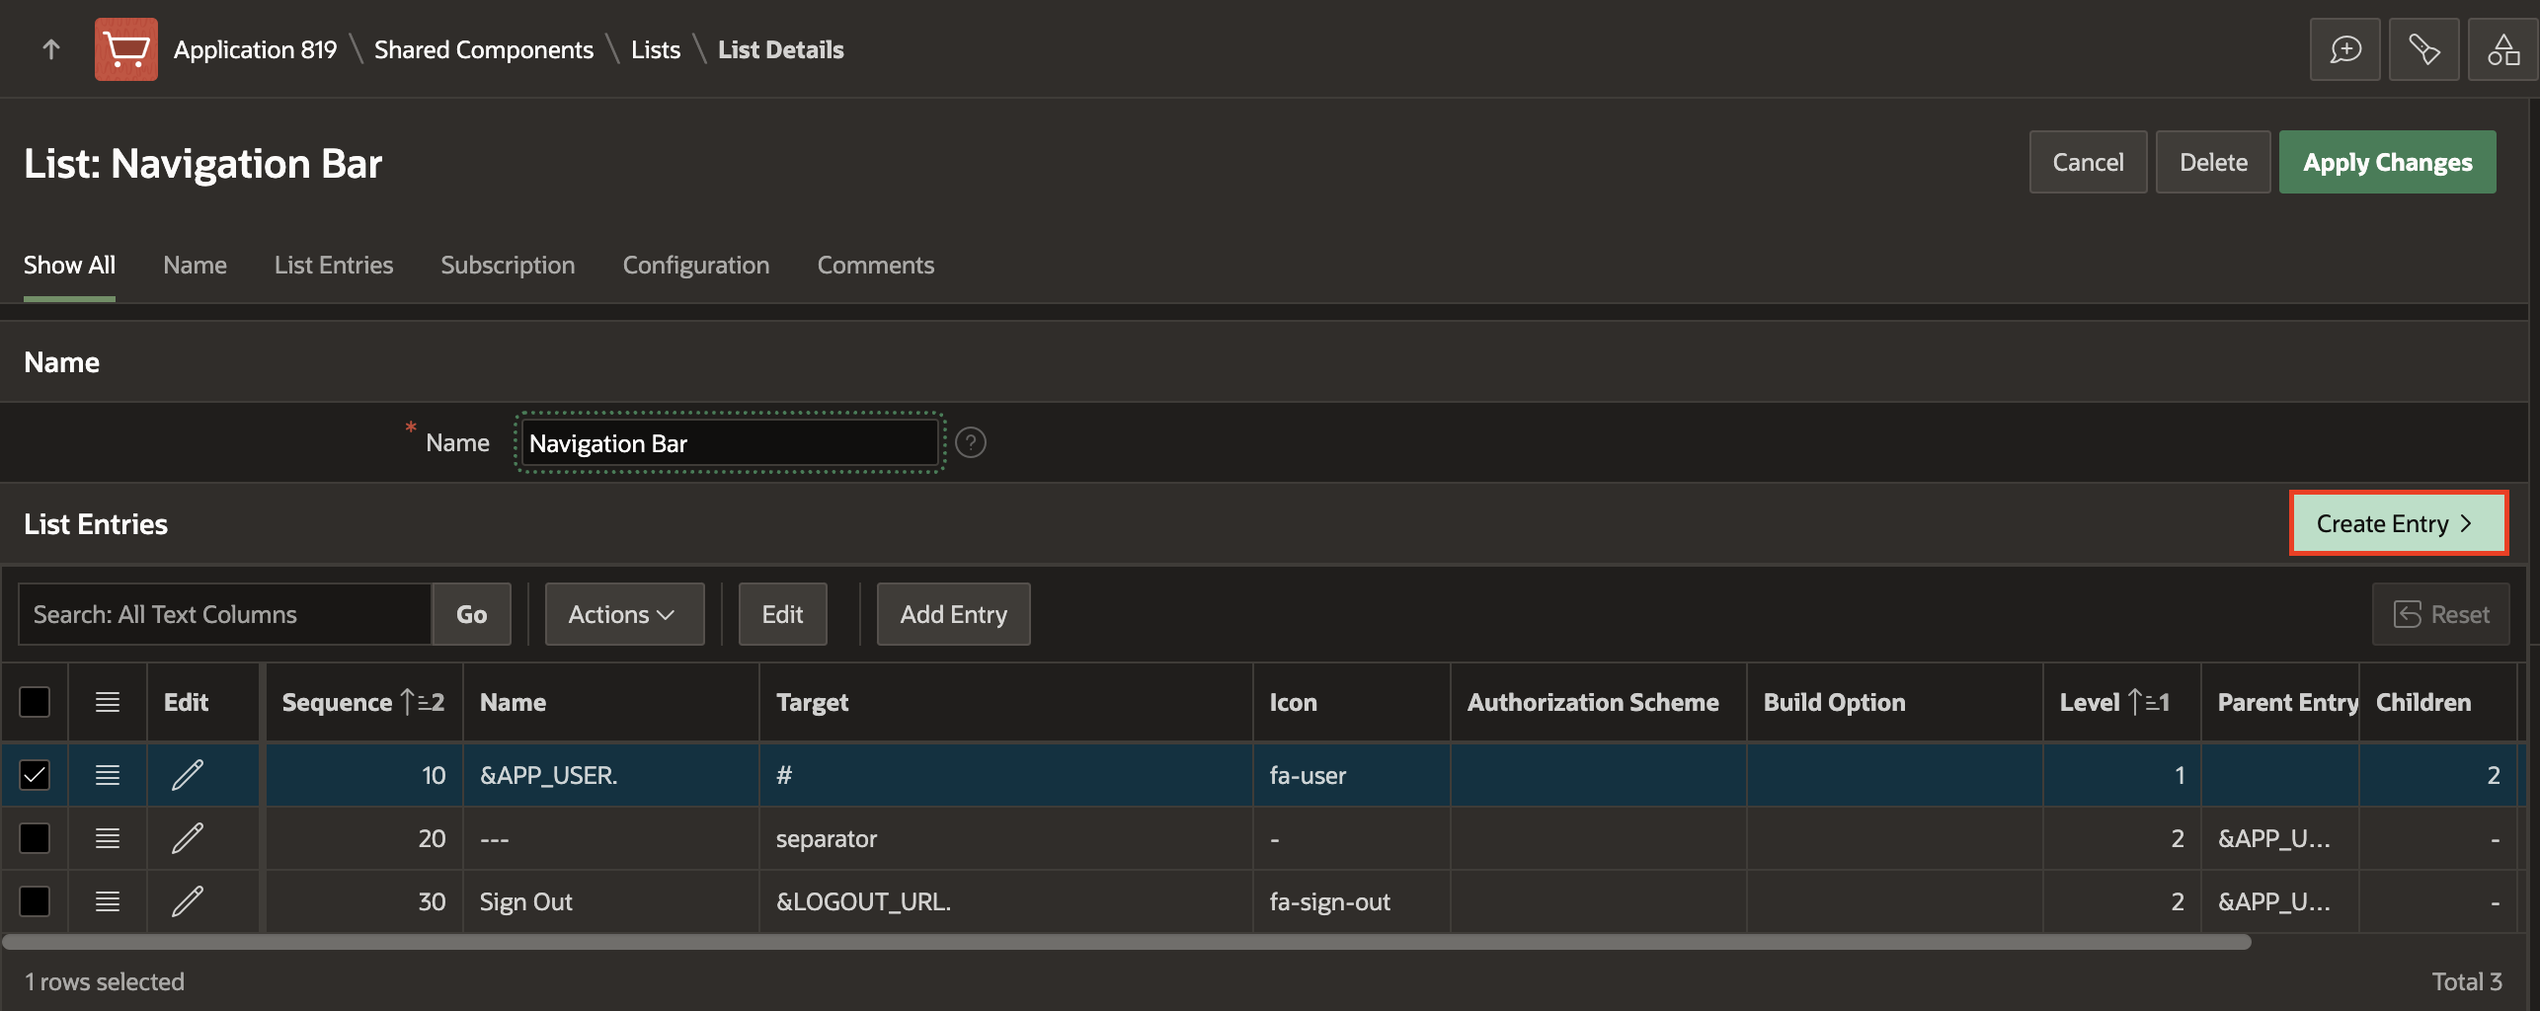
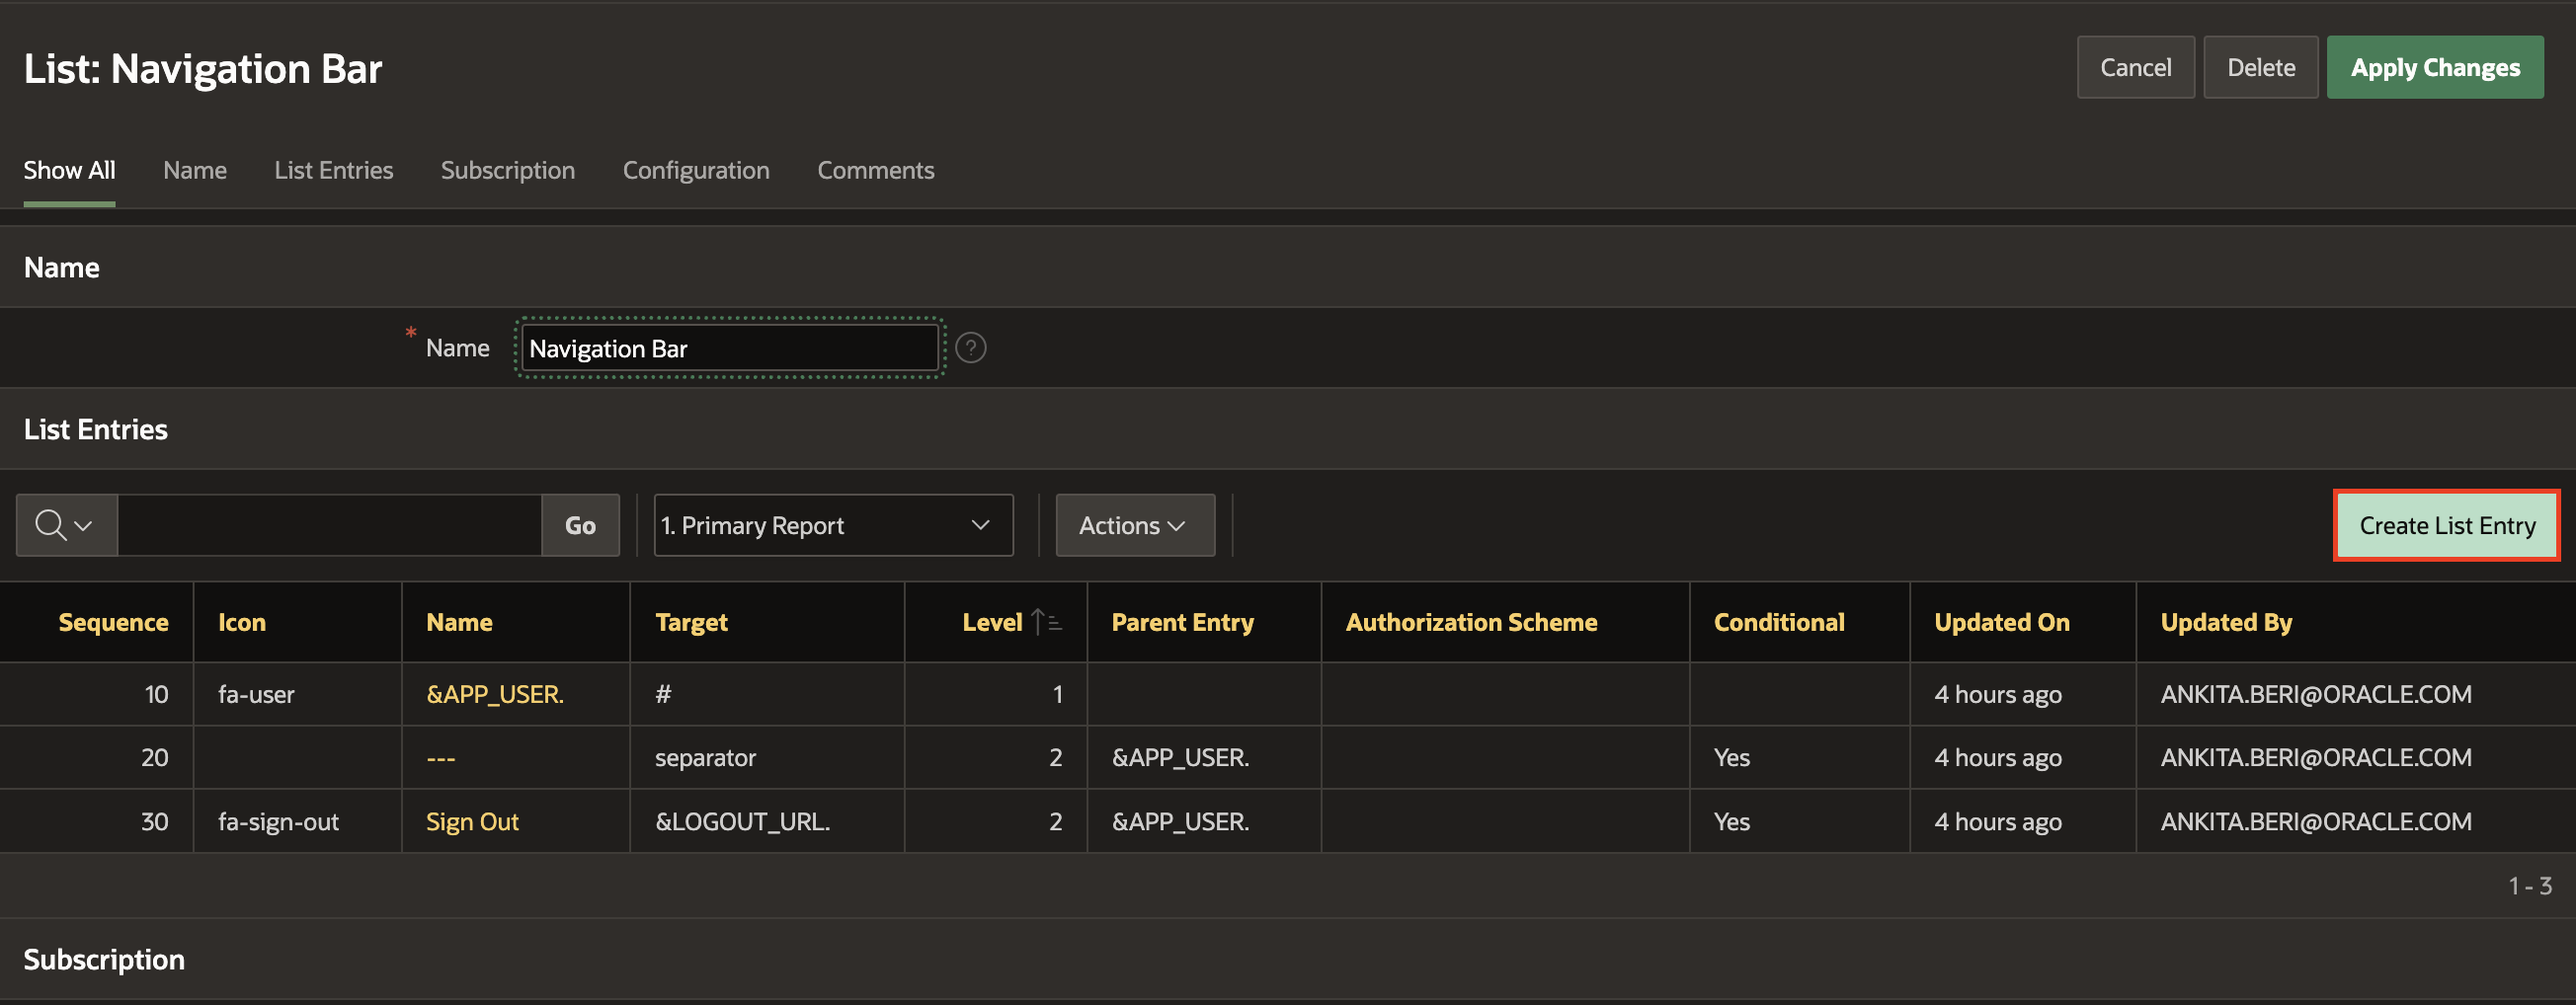
shop-cart

diff --git a/shopping-cart/improving-app/improving-app.md b/shopping-cart/improving-app/improving-app.md
@@ -5,28 +5,27 @@
 In this lab, you will learn how to make some pages publicly accessible.
 
 Estimated Time: 10 minutes
-<!--
-Watch the video below for a quick walk through of the lab.
-
-[](youtube:lwQ3lvul9iE)
--->
 
 Watch the video below for a quick walk-through of the lab.
 [Improve the application](videohub:1_g5q8c5n1)
 
 ### Objectives
+
 In this lab, you will:
+
 - Set the following pages as public pages:
     - Products
     - Shopping Cart
     - Order Information
 
-- Disable the Navigation Menu
+- Disable the Navigation Menu.
 
-- Enhance the Navigation Bar
+- Enhance the Navigation Bar.
 
 ## Task 1: Set Pages to be Public
+
 Your customers don't need to log in the app to shop the products, so let's set the following pages as public:
+
 - Page  1: Products
 - Page 16: Order Information
 - Page 17: Shopping Cart
@@ -36,11 +35,11 @@ Follow these steps for the four listed pages:
 
 1. From the runtime application, navigate to the page.
 
-    In the Developer Toolbar click **Edit Page 1**.
+    In the Developer Toolbar click **Page 1**.
 
 2. Within Page Designer, in the Rendering tree (left pane), navigate to  **Page 1: Products**.
 
-    In the Property Editor (right pane), apply the following change:
+    In the Property Editor (right pane), select the following:
 
     - Under Security > Authentication: **Page Is Public**
 
@@ -48,15 +47,12 @@ Follow these steps for the four listed pages:
 
 3. Click **Save**.
 
-4. Navigate to Page Finder and go to the next page.
-
-  ![Page Finder toolbar at the top](./images/page-finder1.png " ")
-
 ## Task 2: Clean the Navigation Menu
+
 Since the home page is the Products page and this is a public access page as some others too, it's not needed to have a navigation menu.
 In this task, you will turn off displaying the navigation menu.
 
-1. Within Page Designer, click the Shared Components icon at the top right.
+1. Within Page Designer, click the **Shared Components** icon at the top right.
 
     ![Page Designer with the toolbar](./images/shared-components.png " ")
 
@@ -64,34 +60,36 @@ In this task, you will turn off displaying the navigation menu.
 
    ![App Builder home page](./images/shared-components2.png " ")
 
-2. Under User Interface, click **User Interface Attributes**.
+2. Under **User Interface**, click **User Interface Attributes**.
 
     ![Shared Components page](./images/interface-attributes-s.png " ")
-3. Click **Navigation Menu**.
 
-4. Set Display Navigation to **Off**.
+3. Navigate to **Navigation Menu** tab and set Display Navigation to **Off**.
 
     ![User Interface Attributes page](./images/nav-menu.png " ")
 
-5. Click **Apply Changes**.
+4. Click **Apply Changes**.
 
 ## Task 3: Enhance the Navigation Bar List
-Add a new navigation menu entry to allow:
-- Customers to go directly to the Shopping Cart
-- Administrators to login and access to administration page
 
-1. Click the Shared Components icon at the top right.
+Add a new navigation menu entry to allow:
+
+- Customers to go directly to the Shopping Cart.
+
+- Administrators to login and access to administration page.
+
+1. Navigate to **Shared Components** icon at the top right.
 
     ![Shared Components Page](./images/shared-components3.png " ")
-2. Under Navigation and Search, click **Navigation Bar List**.
+2. Under **Navigation and Search**, click **Navigation Bar List**.
 
     ![Shared Components Page](./images/navigation-bar-s.png " ")
 
 3. Click **Navigation Bar**.
 
-  ![Navigation Bar List](./images/click-nav-bar.png " ")
+    ![Navigation Bar List](./images/click-nav-bar.png " ")
 
-4. Click **Create Entry** and enter/select the following:
+4. Click **Create List Entry** and enter/select the following:
 
     - Sequence: **1**
 
@@ -103,9 +101,9 @@ Add a new navigation menu entry to allow:
 
     - Clear cache: **17**
 
-  ![Create Navigation entry details](./images/create-entry.png " ")
+    ![Create Navigation entry details](./images/create-entry.png " ")
 
-  ![Create Navigation entry details](./images/list-entry1.png " ")
+    ![Create Navigation entry details](./images/list-entry1.png " ")
 
 5. Scroll under **User Defined Attributes** and enter the following:
 
@@ -113,23 +111,23 @@ Add a new navigation menu entry to allow:
 
     - List Item CSS Classes: **js-shopping-cart-item**
 
-  ![Create Navigation entry details](./images/list-entry2.png " ")
+    Click **Create List Entry**.
 
-6. Click **Create List Entry**.
+    ![Create Navigation entry details](./images/list-entry2.png " ")
 
     ![Create Navigation entry details](./images/create-entry2.png " ")
 
-7. Click **&APP_USER.**
+6. Under **List Entries**, navigate to **&APP_USER.**
 
     ![Navigation Bar List](./images/edit-app-user.png " ")
 
-8. Under Authorization, for Authorization Scheme, select **Administration Rights**.
+7. Under Authorization, for Authorization Scheme, select **Administration Rights**.
 
-9. Click **Apply Changes**.
+8. Click **Apply Changes**.
 
     ![Edit Navigation list entry](./images/authorization.png " ")
 
-10. Click **Create Entry**  and enter/select the following:
+9. Click **Create List Entry**  and enter/select the following:
 
     - Sequence: **5**
 
@@ -139,14 +137,13 @@ Add a new navigation menu entry to allow:
 
     - Page: **10000**
 
-11. Click **Create List Entry**.
+10. Click **Create List Entry**.
 
     ![Create a list enrty](./images/new-entry.png " ")
 
-12. Click **Run Page** and view the updated application.
+11. Click **Run Page** and view the updated application.
 
     ![Run Page icon in the toolbar](./images/final-app.png " ")
-
 
 ## Summary
 
@@ -154,5 +151,5 @@ You now know how to enhance and maintain both navigation menu and navigation bar
 
 ## Acknowledgments
 
-- **Author** - Apoorva Srinivas, Senior Product Manager; Monica Godoy, Principal Product Manager
-- **Last Updated By/Date** - Ankita Beri, Product Manager, June 2024
+- **Author(s)** - Apoorva Srinivas, Senior Product Manager; Monica Godoy, Principal Product Manager
+- **Last Updated By/Date** - Ankita Beri, Product Manager, January 2025
